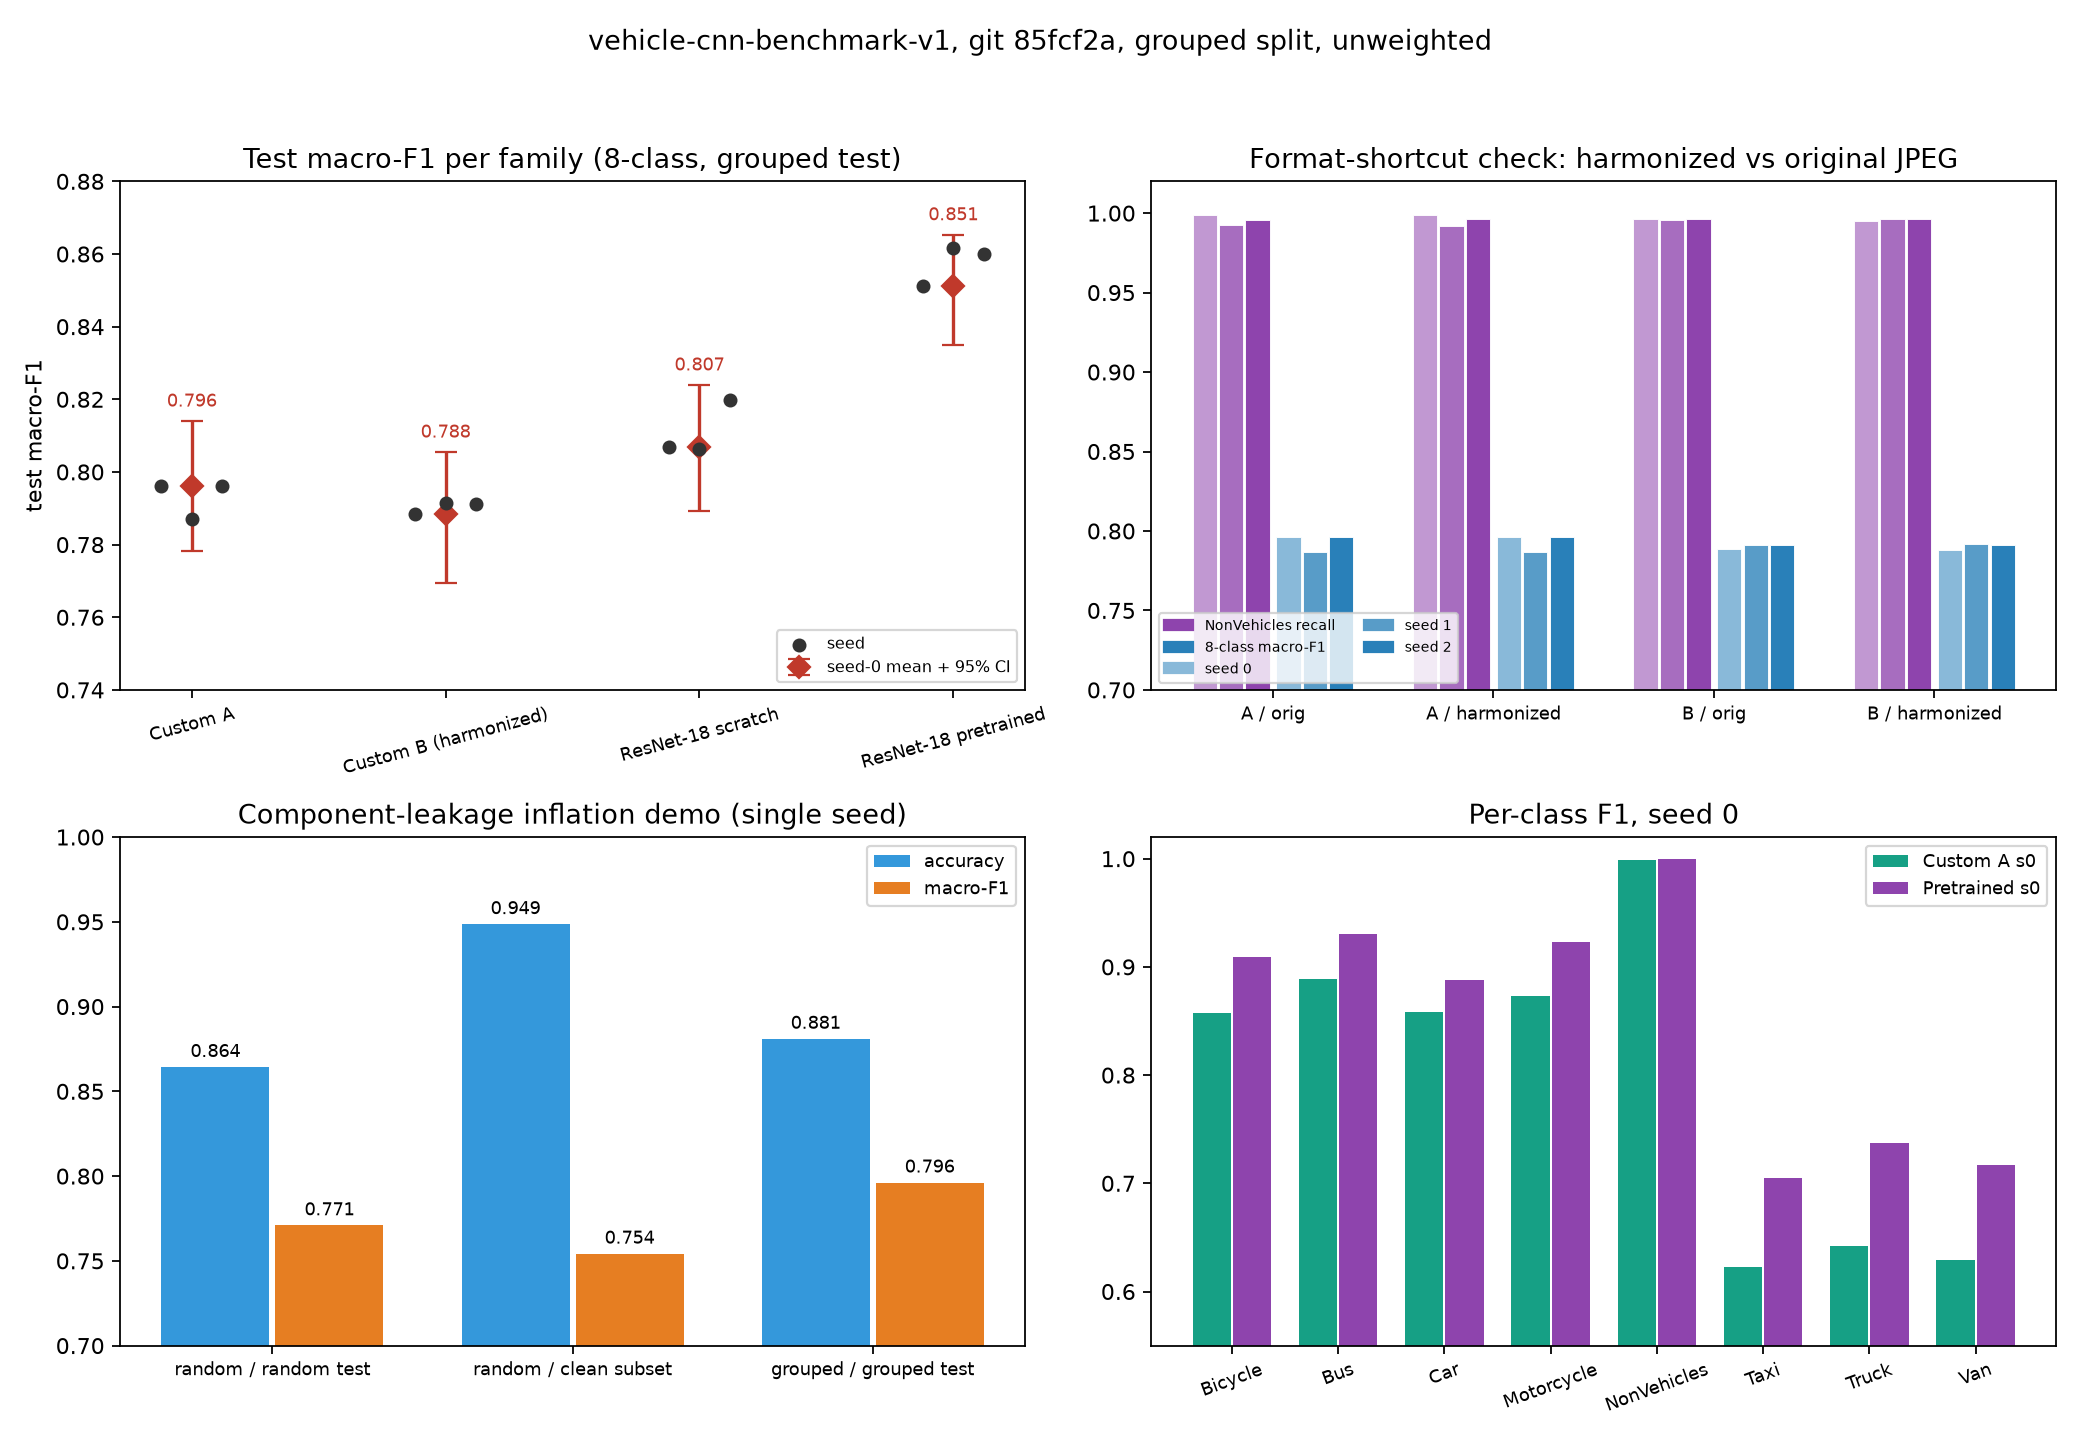
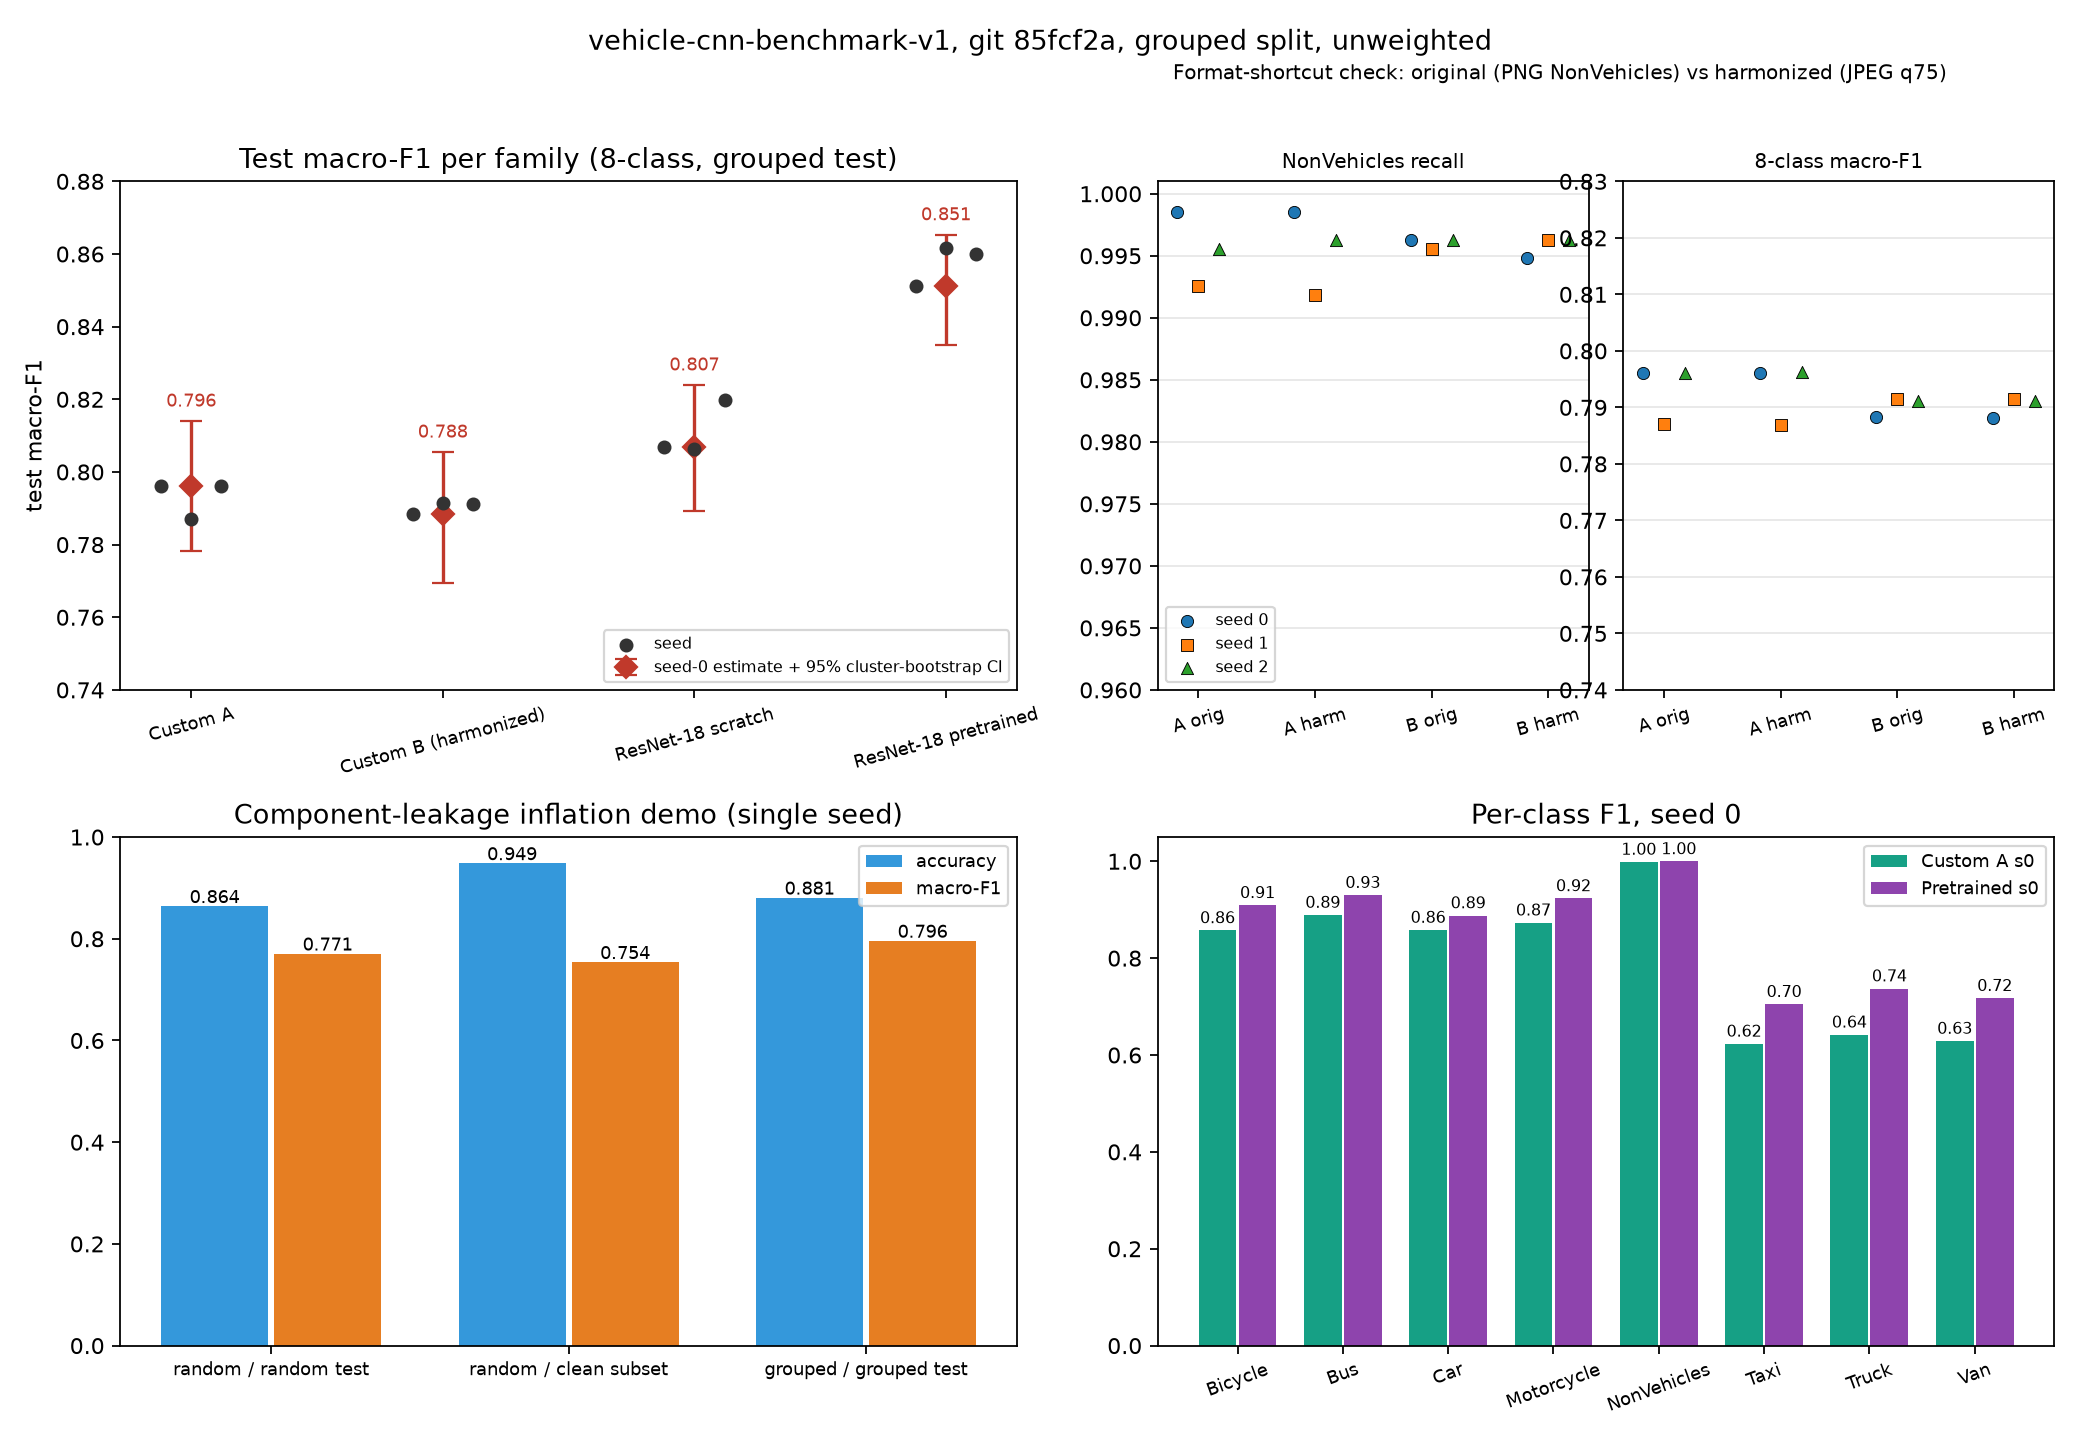
chore(figure): redraw format check and zero-based bar panels

diff --git a/scripts/render_figure.py b/scripts/render_figure.py
@@ -42,7 +42,14 @@ def main() -> None:
     names = metrics["per_class_names"]
     manifest = json.loads((RESULTS / "manifest.json").read_text())
 
-    fig, axes = plt.subplots(2, 2, figsize=(13, 9))
+    fig = plt.figure(figsize=(13, 9))
+    gs = fig.add_gridspec(2, 2)
+    gs_b = gs[0, 1].subgridspec(1, 2, wspace=0.08)
+    ax_a = fig.add_subplot(gs[0, 0])
+    ax_r = fig.add_subplot(gs_b[0])
+    ax_f = fig.add_subplot(gs_b[1])
+    ax_c = fig.add_subplot(gs[1, 0])
+    ax_d = fig.add_subplot(gs[1, 1])
     fig.suptitle(
         f"vehicle-cnn-benchmark-v1, git {manifest['git_sha'][:7]}, "
         f"grouped split, unweighted",
@@ -50,7 +57,7 @@ def main() -> None:
     )
 
     # (a) test macro-F1 per family: per-seed points + seed-0 bootstrap CI.
-    ax = axes[0, 0]
+    ax = ax_a
     for xi, (key, _label) in enumerate(FAMILIES):
         vals = per_seed[key]["macro_f1"]["per_seed"]
         xs = np.full(len(vals), xi) + np.linspace(-0.12, 0.12, len(vals))
@@ -61,7 +68,7 @@ def main() -> None:
             [xi], [ci["point"]],
             yerr=[[ci["point"] - ci["ci_low"]], [ci["ci_high"] - ci["point"]]],
             fmt="D", color="#c0392b", markersize=7, capsize=5,
-            label="seed-0 mean + 95% CI" if xi == 0 else None,
+            label="seed-0 estimate + 95% cluster-bootstrap CI" if xi == 0 else None,
         )
         ax.annotate(
             f"{ci['point']:.3f}", (xi, ci["ci_high"] + 0.004),
@@ -74,44 +81,44 @@ def main() -> None:
     ax.legend(fontsize=7, loc="lower right")
     ax.set_ylim(0.74, 0.88)
 
-    # (b) format-shortcut 2x2: NonVehicles recall and macro-F1.
-    ax = axes[0, 1]
+    # (b) format-shortcut check: two side-by-side strip plots, one per
+    # metric, per-seed points for each of the 4 test conditions.
     conds = [
-        ("arm_A_test_orig", "A / orig"),
-        ("arm_A_test_harmonized", "A / harmonized"),
-        ("arm_B_test_orig", "B / orig"),
-        ("arm_B_test_harmonized", "B / harmonized"),
+        ("arm_A_test_orig", "A orig"),
+        ("arm_A_test_harmonized", "A harm"),
+        ("arm_B_test_orig", "B orig"),
+        ("arm_B_test_harmonized", "B harm"),
     ]
     x = np.arange(len(conds))
-    seed_mix = [0.55, 0.78, 1.0]  # darker = later seed
-    for metric_name, metric_color, off in (
-        ("nonvehicle_recall", "#8e44ad", -0.19),
-        ("macro_f1", "#2980b9", 0.19),
+    fig.text(
+        0.75, 0.945,
+        "Format-shortcut check: original (PNG NonVehicles) vs "
+        "harmonized (JPEG q75)",
+        ha="center", fontsize=9,
+    )
+    markers = ["o", "s", "^"]
+    for axi, metric_name, title, ylim in (
+        (ax_r, "nonvehicle_recall", "NonVehicles recall", (0.96, 1.001)),
+        (ax_f, "macro_f1", "8-class macro-F1", (0.74, 0.83)),
     ):
-        base = np.array(matplotlib.colors.to_rgb(metric_color))
+        axi.set_title(title, fontsize=9)
+        axi.set_xticks(x)
+        axi.set_xticklabels([lbl for _, lbl in conds], fontsize=8,
+                            rotation=15)
+        axi.set_ylim(*ylim)
         for seed_i in range(3):
-            vals = [fmt[c][seed_i][metric_name] for c, _ in conds]
-            c = tuple(base * seed_mix[seed_i] + (1 - seed_mix[seed_i]))
-            ax.bar(
-                x + off + (seed_i - 1) * 0.12, vals, width=0.11, color=c,
-                edgecolor="white", linewidth=0.4,
+            vals = np.array([fmt[c][seed_i][metric_name] for c, _ in conds])
+            xs = x + (seed_i - 1) * 0.18
+            axi.scatter(
+                xs, vals, s=30, marker=markers[seed_i],
+                color=SEED_COLORS[seed_i], edgecolor="black", linewidth=0.4,
+                zorder=3, label=f"seed {seed_i}" if axi is ax_r else None,
             )
-    handles = [
-        plt.Rectangle((0, 0), 1, 1, color="#8e44ad", label="NonVehicles recall"),
-        plt.Rectangle((0, 0), 1, 1, color="#2980b9", label="8-class macro-F1"),
-    ]
-    base = np.array(matplotlib.colors.to_rgb("#2980b9"))
-    for seed_i, name in enumerate(["seed 0", "seed 1", "seed 2"]):
-        c = tuple(base * seed_mix[seed_i] + (1 - seed_mix[seed_i]))
-        handles.append(plt.Rectangle((0, 0), 1, 1, color=c, label=name))
-    ax.legend(handles=handles, fontsize=6.5, ncol=2, loc="lower left")
-    ax.set_xticks(x)
-    ax.set_xticklabels([lbl for _, lbl in conds], fontsize=8)
-    ax.set_ylim(0.7, 1.02)
-    ax.set_title("Format-shortcut check: harmonized vs original JPEG")
+        axi.grid(axis="y", alpha=0.3)
+    ax_r.legend(fontsize=7, loc="lower left")
 
     # (c) inflation demo: three scenarios x (accuracy, macro-F1).
-    ax = axes[1, 0]
+    ax = ax_c
     groups = [
         ("random / random test", infl["random_model_random_test"], "#7f8c8d"),
         ("random / clean subset", infl["random_model_clean_subset"], "#95a5a6"),
@@ -133,12 +140,12 @@ def main() -> None:
             ax.annotate(f"{v:.3f}", (xi, v + 0.006), ha="center", fontsize=8)
     ax.set_xticks(x)
     ax.set_xticklabels([g[0] for g in groups], fontsize=8)
-    ax.set_ylim(0.7, 1.0)
+    ax.set_ylim(0, 1.0)
     ax.set_title("Component-leakage inflation demo (single seed)")
     ax.legend(fontsize=8)
 
     # (d) per-class F1: custom A seed 0 vs pretrained seed 0.
-    ax = axes[1, 1]
+    ax = ax_d
     x = np.arange(len(names))
     for off, key, label, color in (
         (-0.19, "custom_A_s0", "Custom A s0", "#16a085"),
@@ -146,9 +153,11 @@ def main() -> None:
     ):
         vals = [test[key]["per_class"][c]["f1"] for c in names]
         ax.bar(x + off, vals, width=0.36, color=color, label=label)
+        for xi, v in zip(x + off, vals, strict=True):
+            ax.annotate(f"{v:.2f}", (xi, v + 0.015), ha="center", fontsize=7)
     ax.set_xticks(x)
     ax.set_xticklabels(names, fontsize=8, rotation=20)
-    ax.set_ylim(0.55, 1.02)
+    ax.set_ylim(0, 1.05)
     ax.set_title("Per-class F1, seed 0")
     ax.legend(fontsize=8)
 
